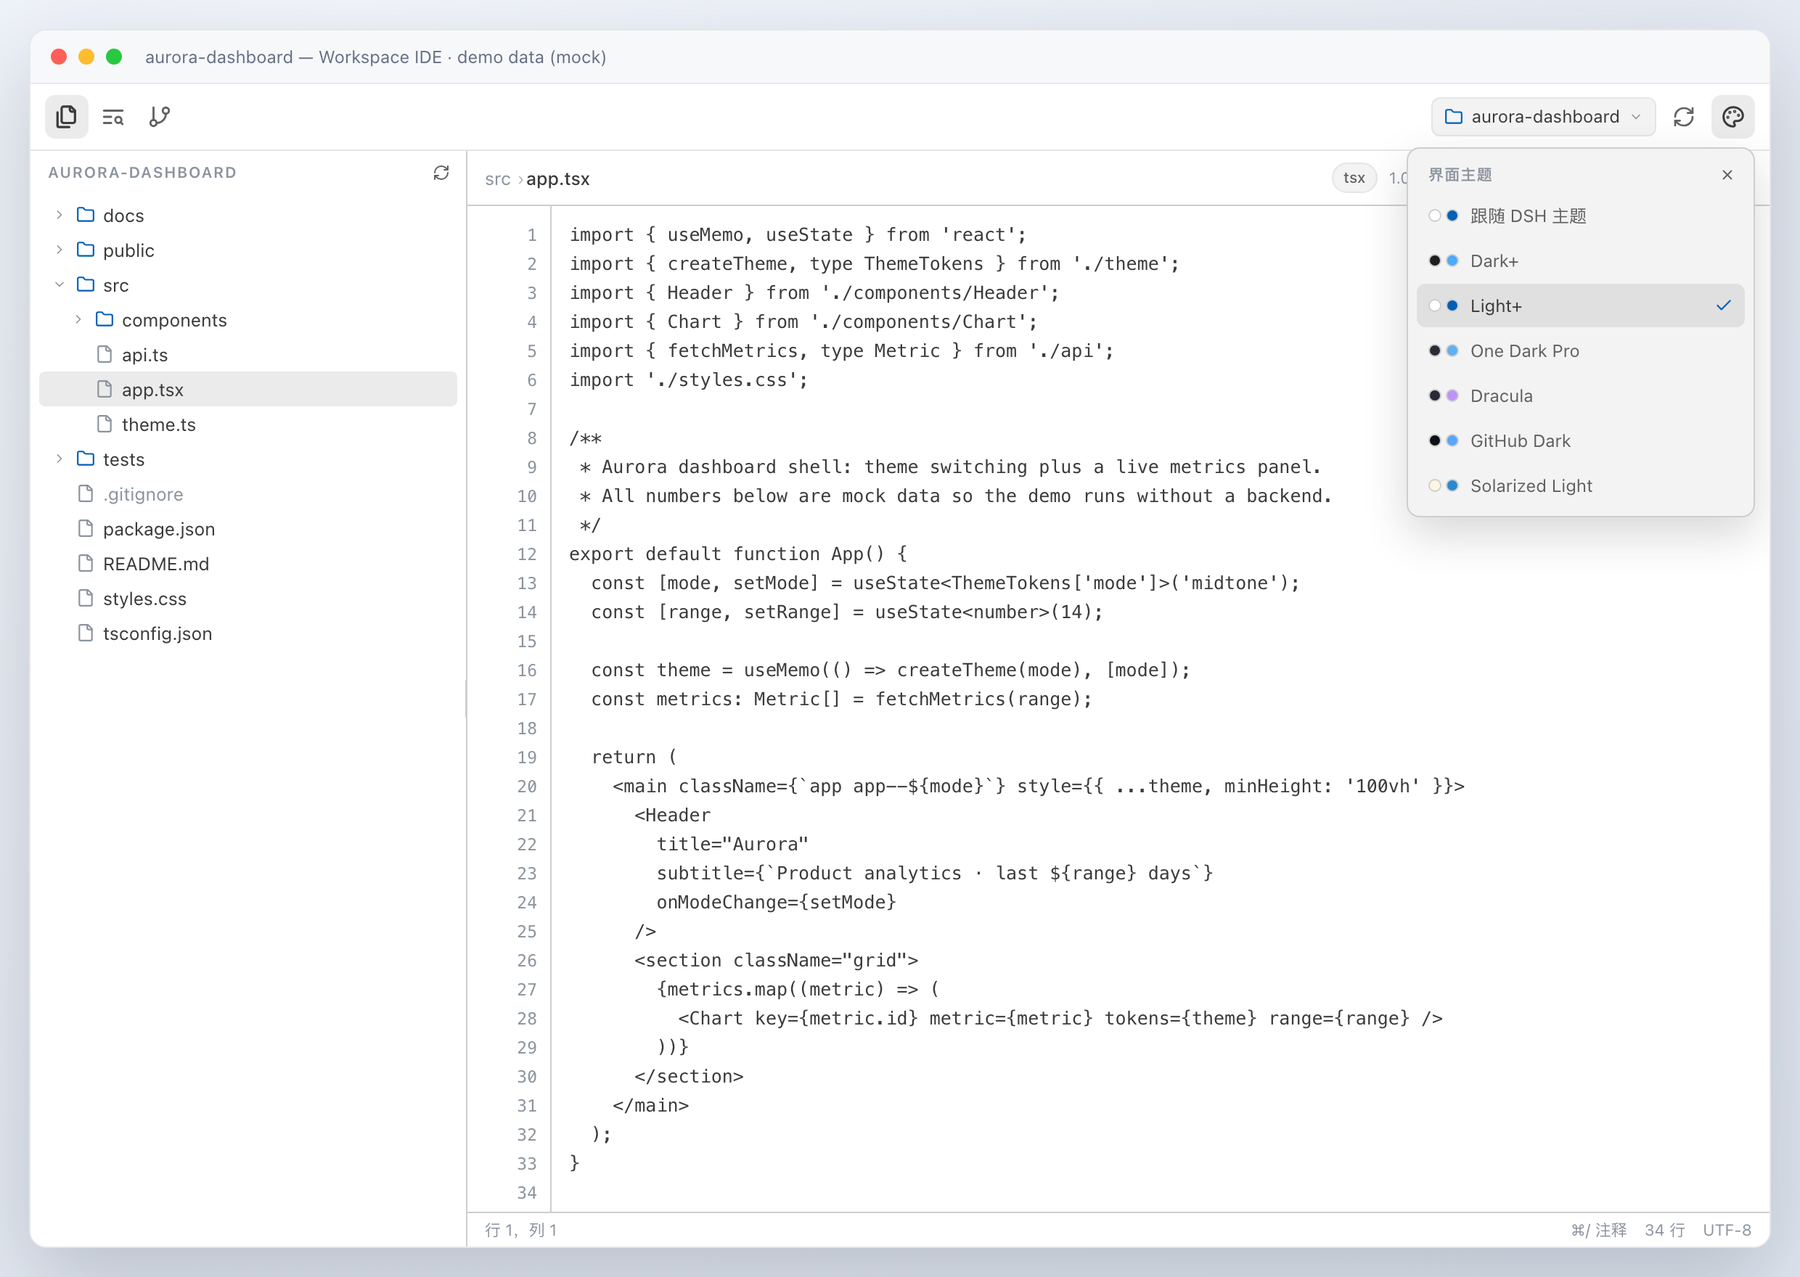
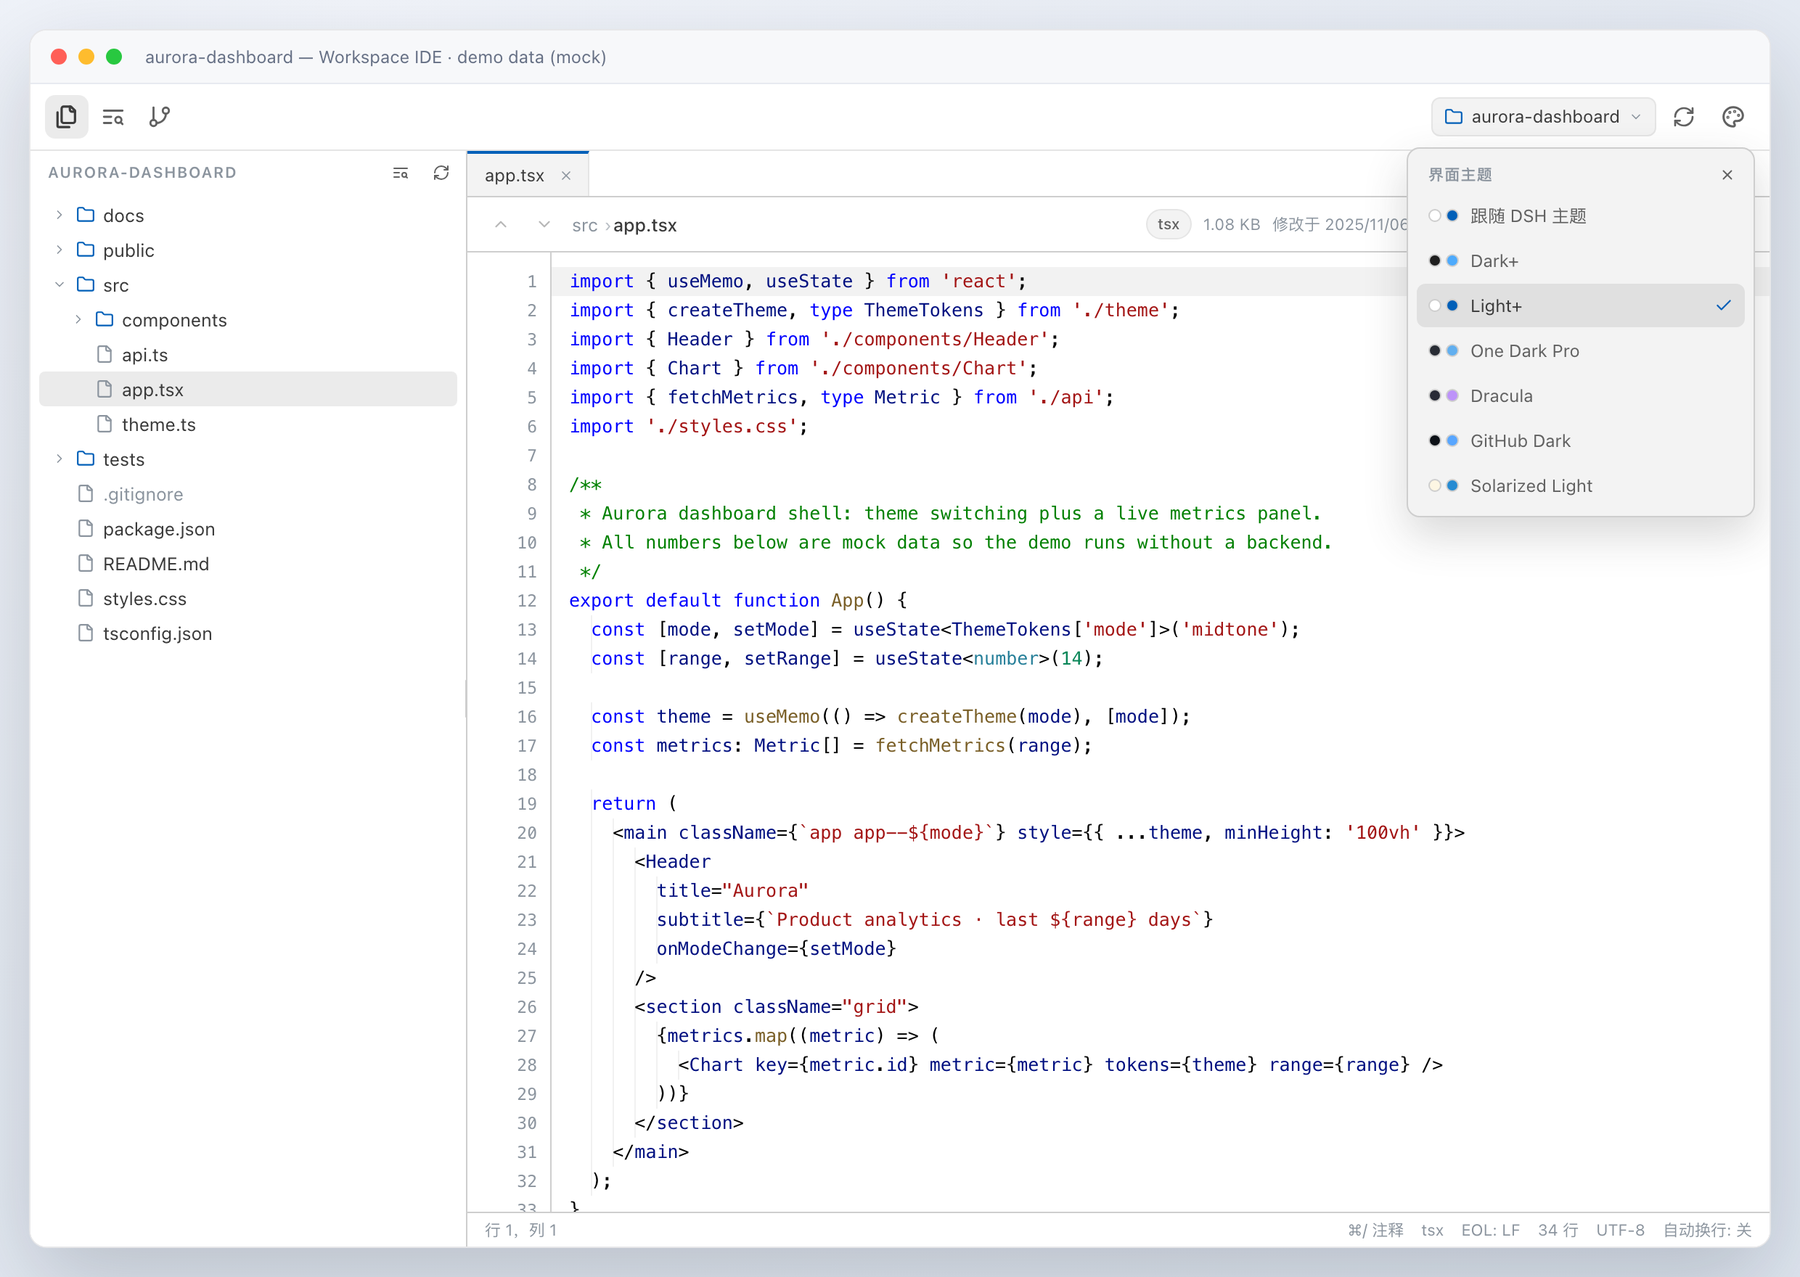
feat(editor): v1.0.0 — JSX/TSX highlighting + visual verification
- 07-highlight: JSX/TSX now reuse the JS/TS tokenizer via LANGUAGE_CONFIGS
  aliases instead of falling back to plain text (the syntax section had
  claimed support; it now actually renders token colours for .jsx/.tsx)
- screenshot harness: new scenarios for find&replace, Quick Open, multi-tab
  dirty state and bracket-matching/current-line/indent guides, plus a mock
  files route and keyboard simulation helpers; regenerated all docs images
- README: new 'Editor: JetBrains-style workflow' section with the four new
  screenshots; install example pinned to v1.0.0
- smoke: regression assertions for jsx/tsx tokenization; CONTRACT notes the
  alias configs; version 1.0.0

diff --git a/lib/client.js b/lib/client.js
@@ -2397,7 +2397,7 @@ const TS_TYPES = words('any bigint boolean never number object string symbol unk
     'ArrayBuffer Uint8Array console document window globalThis process Buffer');
 /** Config for html/xml/vue/svelte: a dedicated tag/attribute scanner. */
 const MARKUP_CONFIG = Object.freeze({ markup: true });
-const LANGUAGE_CONFIGS = Object.freeze({
+const LANGUAGE_CONFIGS = {
     javascript: makeConfig({
         keywords: JS_KEYWORDS,
         types: JS_TYPES,
@@ -2639,7 +2639,13 @@ const LANGUAGE_CONFIGS = Object.freeze({
         stringDefs: STRINGS_DOUBLE,
         propertyLookahead: true,
     }),
-});
+};
+// JSX/TSX reuse the JS/TS tokenizer for now: the markup pass is a different
+// scanner, but at least keywords/strings/comments/JSX-level identifiers get the
+// full token colours instead of the plain fallback.
+LANGUAGE_CONFIGS.jsx = LANGUAGE_CONFIGS.javascript;
+LANGUAGE_CONFIGS.tsx = LANGUAGE_CONFIGS.typescript;
+Object.freeze(LANGUAGE_CONFIGS);
 // ─── plain fallback ─────────────────────────────────────────────────────────
 /**
  * @param {string} code - source text.

diff --git a/src/client/07-highlight.ts b/src/client/07-highlight.ts
@@ -304,7 +304,7 @@ const TS_TYPES = words(
 /** Config for html/xml/vue/svelte: a dedicated tag/attribute scanner. */
 const MARKUP_CONFIG = Object.freeze({ markup: true });
 
-const LANGUAGE_CONFIGS: Record<string, any> = Object.freeze({
+const LANGUAGE_CONFIGS: Record<string, any> = {
   javascript: makeConfig({
     keywords: JS_KEYWORDS,
     types: JS_TYPES,
@@ -619,7 +619,14 @@ const LANGUAGE_CONFIGS: Record<string, any> = Object.freeze({
     stringDefs: STRINGS_DOUBLE,
     propertyLookahead: true,
   }),
-});
+};
+
+// JSX/TSX reuse the JS/TS tokenizer for now: the markup pass is a different
+// scanner, but at least keywords/strings/comments/JSX-level identifiers get the
+// full token colours instead of the plain fallback.
+LANGUAGE_CONFIGS.jsx = LANGUAGE_CONFIGS.javascript;
+LANGUAGE_CONFIGS.tsx = LANGUAGE_CONFIGS.typescript;
+Object.freeze(LANGUAGE_CONFIGS);
 
 // ─── plain fallback ─────────────────────────────────────────────────────────
 

diff --git a/scripts/screenshots/build-screenshots.py b/scripts/screenshots/build-screenshots.py
@@ -678,9 +678,16 @@ def mock_data(git_empty: bool):
         workspaces.insert(0, {'id': 'ws-docs', 'path': AURORA + '/docs-site', 'title': 'docs-site',
                               'sessionCount': 1, 'live': True, 'git': False})
         workspaces = workspaces[:3]
+    quick_files = []
+    for entries in ENTRIES.values():
+        for entry in entries:
+            if entry.get('type') == 'file':
+                quick_files.append(entry['path'])
+    quick_files.sort()
     return {
         'workspaces': workspaces,
         'entries': ENTRIES,
+        'quickFiles': quick_files,
         'files': {path: {'content': meta['content'], 'language': meta['language'], 'size': file_size(path)}
                   for path, meta in FILES.items()},
         'search': search_results(),
@@ -757,9 +764,11 @@ DRIVER = r'''
   var MOCK = __MOCK__;
   var THEME_BY_SHOT = {
     files: 'light-plus', search: 'light-plus', git: 'one-dark-pro',
-    'theme-dark': 'one-dark-pro', 'theme-light': 'light-plus', themes: 'light-plus', 'git-empty': 'light-plus', markdown: 'light-plus', image: 'light-plus', svg: 'light-plus'
+    'theme-dark': 'one-dark-pro', 'theme-light': 'light-plus', themes: 'light-plus',
+    'git-empty': 'light-plus', markdown: 'light-plus', image: 'light-plus', svg: 'light-plus',
+    find: 'light-plus', 'quick-open': 'light-plus', tabs: 'one-dark-pro', brackets: 'one-dark-pro'
   };
-  var DARK_CHROME = ['git', 'theme-dark'];
+  var DARK_CHROME = ['git', 'theme-dark', 'tabs', 'brackets'];
   if (DARK_CHROME.indexOf(SHOT) !== -1) document.body.setAttribute('data-chrome', 'dark');
 
   var store = {};
@@ -833,6 +842,9 @@ DRIVER = r'''
       case 'list': return ok({
         ok: true, root: query.get('root'), path: query.get('path') || '',
         entries: MOCK.entries[query.get('path') || ''] || [], truncated: false
+      });
+      case 'files': return ok({
+        ok: true, root: query.get('root'), files: MOCK.quickFiles || Object.keys(MOCK.files), truncated: false
       });
       case 'file': return ok(mockFile(query.get('path') || ''));
       case 'image': return ok(mockImage(query.get('path') || ''));
@@ -914,6 +926,70 @@ DRIVER = r'''
       .then(function () { return waitFor(function () { return q('[data-kind]'); }); })
       .then(function () { return sleep(360); });
   }
+  function setInputValue(input, value) {
+    var setter = Object.getOwnPropertyDescriptor(window.HTMLInputElement.prototype, 'value').set;
+    setter.call(input, value);
+    input.dispatchEvent(new Event('input', { bubbles: true }));
+  }
+  function pressKey(target, key, options) {
+    var init = Object.assign({ key: key, bubbles: true, cancelable: true, metaKey: true }, options || {});
+    target.dispatchEvent(new KeyboardEvent('keydown', init));
+  }
+  function findInput(label) {
+    var inputs = Array.prototype.slice.call(document.querySelectorAll('input'));
+    return inputs.filter(function (input) {
+      return (input.getAttribute('aria-label') || '') === label;
+    })[0];
+  }
+  function openFindBar() {
+    return openFile('src/app.tsx').then(function () {
+      var textarea = q('textarea');
+      if (!textarea) throw new Error('no textarea');
+      pressKey(textarea, 'f');
+      return waitFor(function () { return findInput('查找'); });
+    }).then(function (input) {
+      setInputValue(input, 'theme');
+      return waitFor(function () { return q('[data-find-highlight]'); });
+    }).then(function () { return sleep(360); });
+  }
+  function openQuickOpen() {
+    return openFile('src/app.tsx').then(function () {
+      var textarea = q('textarea');
+      if (!textarea) throw new Error('no textarea');
+      pressKey(textarea, 'p');
+      return waitFor(function () { return findInput('转到文件'); });
+    }).then(function (input) {
+      setInputValue(input, 'app');
+      return waitFor(function () { return document.querySelectorAll('[role="option"]').length > 0; });
+    }).then(function () { return sleep(360); });
+  }
+  function openTabsAndDirty() {
+    return openFile('src/app.tsx')
+      .then(function () { return openFile('src/theme.ts'); })
+      .then(function () { return openFile('README.md'); })
+      .then(function () {
+        var textarea = q('textarea');
+        if (!textarea) throw new Error('no textarea');
+        var setter = Object.getOwnPropertyDescriptor(window.HTMLTextAreaElement.prototype, 'value').set;
+        setter.call(textarea, textarea.value + '\n');
+        textarea.dispatchEvent(new Event('input', { bubbles: true }));
+        return waitFor(function () { return document.querySelectorAll('[role="tab"]').length === 3; });
+      })
+      .then(function () { return sleep(380); });
+  }
+  function openBracketMatch() {
+    return openFile('src/app.tsx').then(function () {
+      var textarea = q('textarea');
+      if (!textarea) throw new Error('no textarea');
+      var value = textarea.value;
+      var at = value.indexOf('return (');
+      var caret = at === -1 ? value.indexOf('(') + 1 : value.indexOf('(', at) + 1;
+      textarea.focus();
+      textarea.setSelectionRange(caret, caret);
+      textarea.dispatchEvent(new KeyboardEvent('keyup', { key: 'ArrowRight', bubbles: true }));
+      return waitFor(function () { return q('[data-bracket-highlight]'); });
+    }).then(function () { return sleep(360); });
+  }
   function openThemePicker() {
     return waitFor(function () { return q('[data-theme-button]'); })
       .then(click)
@@ -954,7 +1030,11 @@ DRIVER = r'''
         .then(function () { return waitFor(function () { return q('[data-svg-image]'); }); })
         .then(function () { return sleep(400); });
     },
-    'git-empty': function () { return openGitEmpty(); }
+    'git-empty': function () { return openGitEmpty(); },
+    find: function () { return openFindBar(); },
+    'quick-open': function () { return openQuickOpen(); },
+    tabs: function () { return openTabsAndDirty(); },
+    brackets: function () { return openBracketMatch(); }
   };
 
   waitFor(function () { return q('[data-tab="files"]'); }, 9000)
@@ -979,6 +1059,10 @@ SHOTS = [
     ('image', 'screenshot-image.png'),
     ('svg', 'screenshot-svg.png'),
     ('git-empty', 'screenshot-git-empty.png'),
+    ('find', 'screenshot-find.png'),
+    ('quick-open', 'screenshot-quick-open.png'),
+    ('tabs', 'screenshot-tabs.png'),
+    ('brackets', 'screenshot-brackets.png'),
 ]
 
 

diff --git a/README.md b/README.md
@@ -69,6 +69,30 @@ line or every selected line (the per-language token table covers `//`, `#`, `--`
 `/* */` / `<!-- -->` block wrapping for CSS, HTML, XML, Markdown, Vue and Svelte), and the
 toggle is reversible, indent-preserving and leaves blank lines untouched.
 
+### Editor: JetBrains-style workflow
+
+Beyond editing and saving, the viewer follows the interactions JetBrains IDEs made
+standard:
+
+- **Find & replace** (`Ctrl/Cmd+F` / `Ctrl/Cmd+H`) with match counter, previous/next,
+  case / whole-word / regex toggles, Replace and Replace All, and a highlight layer that
+  paints every match behind the text.
+- **Quick Open** (`Ctrl/Cmd+P`) ranks the whole workspace file index locally with a fuzzy
+  subsequence score; type, arrow, Enter.
+- **Tabs** keep one tab per open file with dirty markers; unsaved drafts and carets survive
+  tab switches, and closing a dirty tab asks before discarding.
+- **Bracket matching / auto-pair / smart indent / current line / indent guides** make the
+  same gestures feel native: matched brackets highlight, openers auto-close, Enter inherits
+  indentation, and Shift+Tab outdents.
+
+![Find & replace with match counter and all-match highlight](docs/screenshot-find.png)
+
+![Quick Open palette](docs/screenshot-quick-open.png)
+
+![Multi-tab editing with dirty marker and unsaved-change hint](docs/screenshot-tabs.png)
+
+![Bracket matching, current line and indent guides](docs/screenshot-brackets.png)
+
 ### Markdown preview
 
 `.md` files switch between editable source and a rendered preview from the file header, or
@@ -127,7 +151,7 @@ Or install straight from GitHub instead of a local checkout:
 ```text
 plugin_manager { action: "install_bundle", target: "echoVic/dsh-workspace-ide" }
 # or pin a release tarball:
-plugin_manager { action: "install_bundle", target: "https://github.com/echoVic/dsh-workspace-ide/archive/refs/tags/v0.3.0.tar.gz" }
+plugin_manager { action: "install_bundle", target: "https://github.com/echoVic/dsh-workspace-ide/archive/refs/tags/v1.0.0.tar.gz" }
 ```
 
 ## How it works

diff --git a/CONTRACT.md b/CONTRACT.md
@@ -297,6 +297,11 @@ The theme picker glyphs are Lucide `palette` / `check`, vendored like every othe
 
 ### Syntax highlighting (`07-highlight.ts`)
 
+JSX/TSX currently reuse the JavaScript/TypeScript tokenizer (`LANGUAGE_CONFIGS.jsx` and
+`.tsx` alias the same config objects) so those files get full token colours instead of the
+plain fallback; the dedicated markup scanner is still used for HTML/XML/Vue/Svelte tag
+level.
+
 `S.highlightLines(code, language)` returns one entry per source line; each entry is an array
 of `[kind, text]` segments (`kind` ∈ keyword, string, comment, number, constant, function,
 type, variable, operator, punctuation, tag, attr, property, regexp, meta, plain). The
